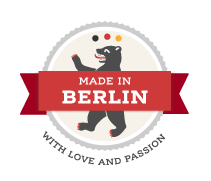
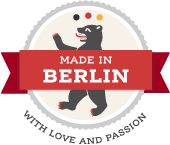
fixed padding issue on Made in Berlin Sticker

diff --git a/style.css b/style.css
@@ -424,21 +424,12 @@ div#sidebar {
   font-weight : normal;
 }
 
-/*div#footer {
-  clear       : both;
-  margin      : 0 auto;
-  padding-top : 10px;
-  text-align  : center;
-  overflow    : hidden;
-  background  : #ebeae8;
-}*/
-
-#footer {
+footer {
   background : #ebeae8;
   padding    : 28px 0 28px 0;
 }
 
-#footer p {
+footer p {
   color : #a53230;
 }
 
@@ -449,7 +440,6 @@ div#sidebar {
 }
 
 #travis-address {
-  padding-top : 20px;
   clear       : all;
   display     : inline-block;
 }
@@ -457,53 +447,61 @@ div#sidebar {
 .left {
   float   : left;
   display : inline-block;
-  padding : 0 0 0 10px;
+  padding : 0;
 }
 
-#footer ul li {
+.right {
+  float   : right;
+  display : inline-block;
+  padding : 0;
+}
+
+footer ul li {
   display     : inline;
-  margin-left : 3px;
+  margin-left : 25px;
 }
 
-#footer ul.right {
+footer ul.right {
   list-style-type : none;
   display         : inline-block;
-  padding         : 30px 0 0 10px;
+  padding         : 10px 0 0 10px;
 }
 
-#footer a {
+footer a {
   color           : #4d4d4d;
   font-family     : 'Source Sans Pro', sans-serif; font-weight: 400;
   font-size       : 15px;
   text-decoration : none;
 }
 
-#footer img {
+footer a:visited {
+  color           : #4d4d4d;
+  font-family     : 'Source Sans Pro', sans-serif; font-weight: 400;
+  font-size       : 15px;
+  text-decoration : none;
+}
+
+#berlin-sticker {
+  margin  : 0 0 20px 0;
+  float   : right;
+  display : block; 
+}
+
+footer img#travis-mascot {
   display    : inline-block;
   max-height : 80px;
 }
 
-div#footer .wrapper {
+footer img#made-in-berlin {
+  float      : right;
+  display    : inline-block;
+  max-height : 80px;
+}
+
+div footer .wrapper {
   background : transparent;
-  width      : 920px;
+  width      : 950px;
 }
-
-/*div#footer div.box {
-  float        : left;
-  width        : 280px;
-  margin-right : 30px;
-  color        : #888;
-}
-
-div#footer div.last {
-  margin-right : 0;
-  margin-left  : 15px;
-}
-
-div#footer div.box ul li a,
-div#footer div.box ul li a:visited {
-  color : #7d8997;
-}*/
 
 h1 {
   margin      : 0;
@@ -819,6 +817,7 @@ input[type=email] {
 .large-6 {
   position : relative;
   float    : left;
+  padding  : 0;
   width    : 50%;
   display  : inline-block;
   clear    : all;
@@ -826,8 +825,7 @@ input[type=email] {
 
 .large-4 {
   position : relative;
-  width    : 23.33333%;
-  float    : left;
+  float    : none;
   display  : inline-block;
   clear    : all;
 }
@@ -843,7 +841,4 @@ input[type=email] {
 .column,
 .columns {
   position      : relative;
-  padding-left  : 0.9375em;
-  padding-right : 0.9375em;
-  float         : left;
 }

diff --git a/_layouts/en.html b/_layouts/en.html
@@ -144,46 +144,31 @@
 
 
 
-
-    <div id="footer">
+    <footer>
       <div class="wrapper">
         <div class="large-6 columns left">
           <div id="travis-logo">
-            <img src="/images/travis-mascot-200px.png">
+            <img src="/images/travis-mascot-200px.png" id="travis-mascot">
           </div>
           <div id="travis-address">
             <p>&copy; 2013 Travis CI GmbH,<br> Prinzessinnenstr. 20, 10969 Berlin, Germany</p>
           </div>
         </div>
 
-        <div class="large-4 columns">
-          <ul class="right">
-            <li><a href="mailto:contact@travis-ci.com">Email</a></li>
-            <li><a href="http://chat.travis-ci.com">Live Chat</a></li>
-            <li><a href="http://about.travis-ci.org/docs">Docs</a></li>
-            <li><a href="http://status.travis-ci.com">Status</a></li>
-          </ul>
-        </div>
-        <div class="large-2 columns">
-          <img src="/images/made-in-berlin-badge.png" id="made-in-berlin">
-        </div>
-      </div>
-    </div>
-    <!-- <div id="footer">
-      <div class="wrapper">
-        <div class="box">
-          <p>This site is maintained by the <a href="http://github.com/travis-ci">Travis CI community</a>. Feel free to <a href="http://github.com/travis-ci/travis-ci.github.com">contribute</a>!</p>
-        </div>
-        <div class="box">
-          <p>This design was kindly provided by the talented Ben Webster of <a href="http://www.plus2.com.au">Plus2</a>.</p>
-        </div>
-        <div class="box last">
-          <ul>
-            <li><a href="https://github.com/travis-ci" title="">Travis CI on GitHub</a></li>
-            <li><a href="https://twitter.com/travisci" title="">Travis CI on Twitter</a></li>
-          </ul>
+        <div class="large-6 columns right">
+          <div id="footer-nav">
+            <ul class="left">
+              <li><a href="mailto:contact@travis-ci.com">Email</a></li>
+              <li><a href="http://chat.travis-ci.com">Live Chat</a></li>
+              <li><a href="http://about.travis-ci.org/docs">Docs</a></li>
+              <li><a href="http://status.travis-ci.com">Status</a></li>
+            </ul>
+          </div>
+          <div id="berlin-sticker">
+            <img src="/images/made-in-berlin-badge.png" id="made-in-berlin">
+          </div>
         </div>
       </div>
-    </div> -->
+    </footer>
   </body>
 </html>

diff --git a/_layouts/es.html b/_layouts/es.html
@@ -114,21 +114,31 @@
       </div><!-- /.wrapper -->
     </div><!-- /#content -->
 
-    <div id="footer">
+    <footer>
       <div class="wrapper">
-        <div class="box">
-          <p>Este sitio es mantenido por la <a href="http://github.com/travis-ci">Comunidad de Travis CI</a>. Sientete libre de <a href="http://github.com/travis-ci/travis-ci.github.com">contribuir</a>!</p>
+        <div class="large-6 columns left">
+          <div id="travis-logo">
+            <img src="/images/travis-mascot-200px.png" id="travis-mascot">
+          </div>
+          <div id="travis-address">
+            <p>&copy; 2013 Travis CI GmbH,<br> Prinzessinnenstr. 20, 10969 Berlin, Germany</p>
+          </div>
         </div>
-        <div class="box">
-          <p>Este diseño ha sido provisto generosamente por el talentoso Ben Webster de <a href="http://www.plus2.com.au">Plus2</a>.</p>
+
+        <div class="large-6 columns right">
+          <div id="footer-nav">
+            <ul class="left">
+              <li><a href="mailto:contact@travis-ci.com">Email</a></li>
+              <li><a href="http://chat.travis-ci.com">Live Chat</a></li>
+              <li><a href="http://about.travis-ci.org/docs">Docs</a></li>
+              <li><a href="http://status.travis-ci.com">Status</a></li>
+            </ul>
+          </div>
+          <div id="berlin-sticker">
+            <img src="/images/made-in-berlin-badge.png" id="made-in-berlin">
+          </div>
         </div>
-        <div class="box last">
-          <ul>
-            <li><a href="https://github.com/travis-ci" title="">Travis CI en GitHub</a></li>
-            <li><a href="https://twitter.com/travisci" title="">Travis CI en Twitter</a></li>
-          </ul>
-        </div><!-- /.box -->
-      </div><!-- /.wrapper -->
-    </div><!-- /#footer -->
+      </div>
+    </footer>
   </body>
 </html>
